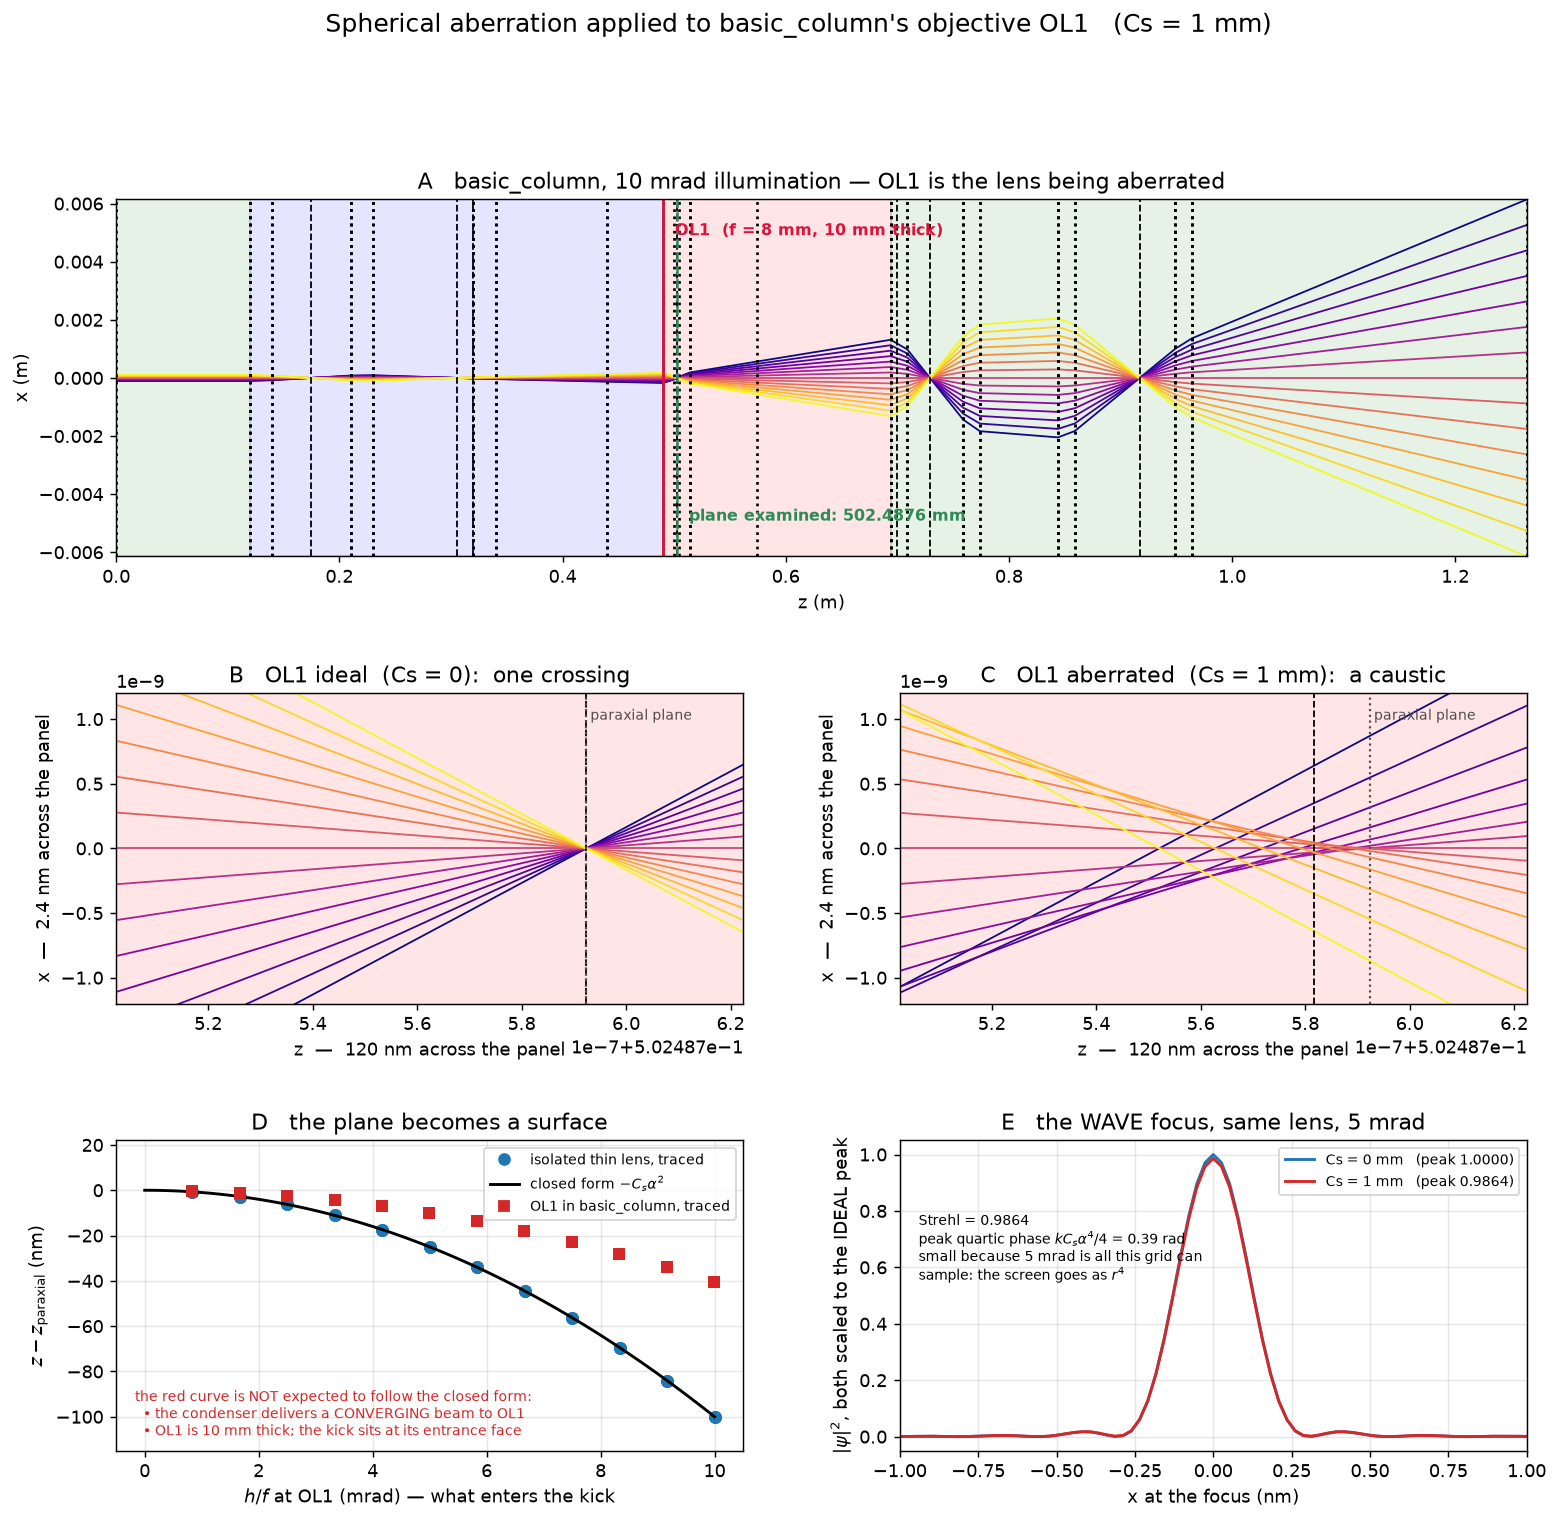
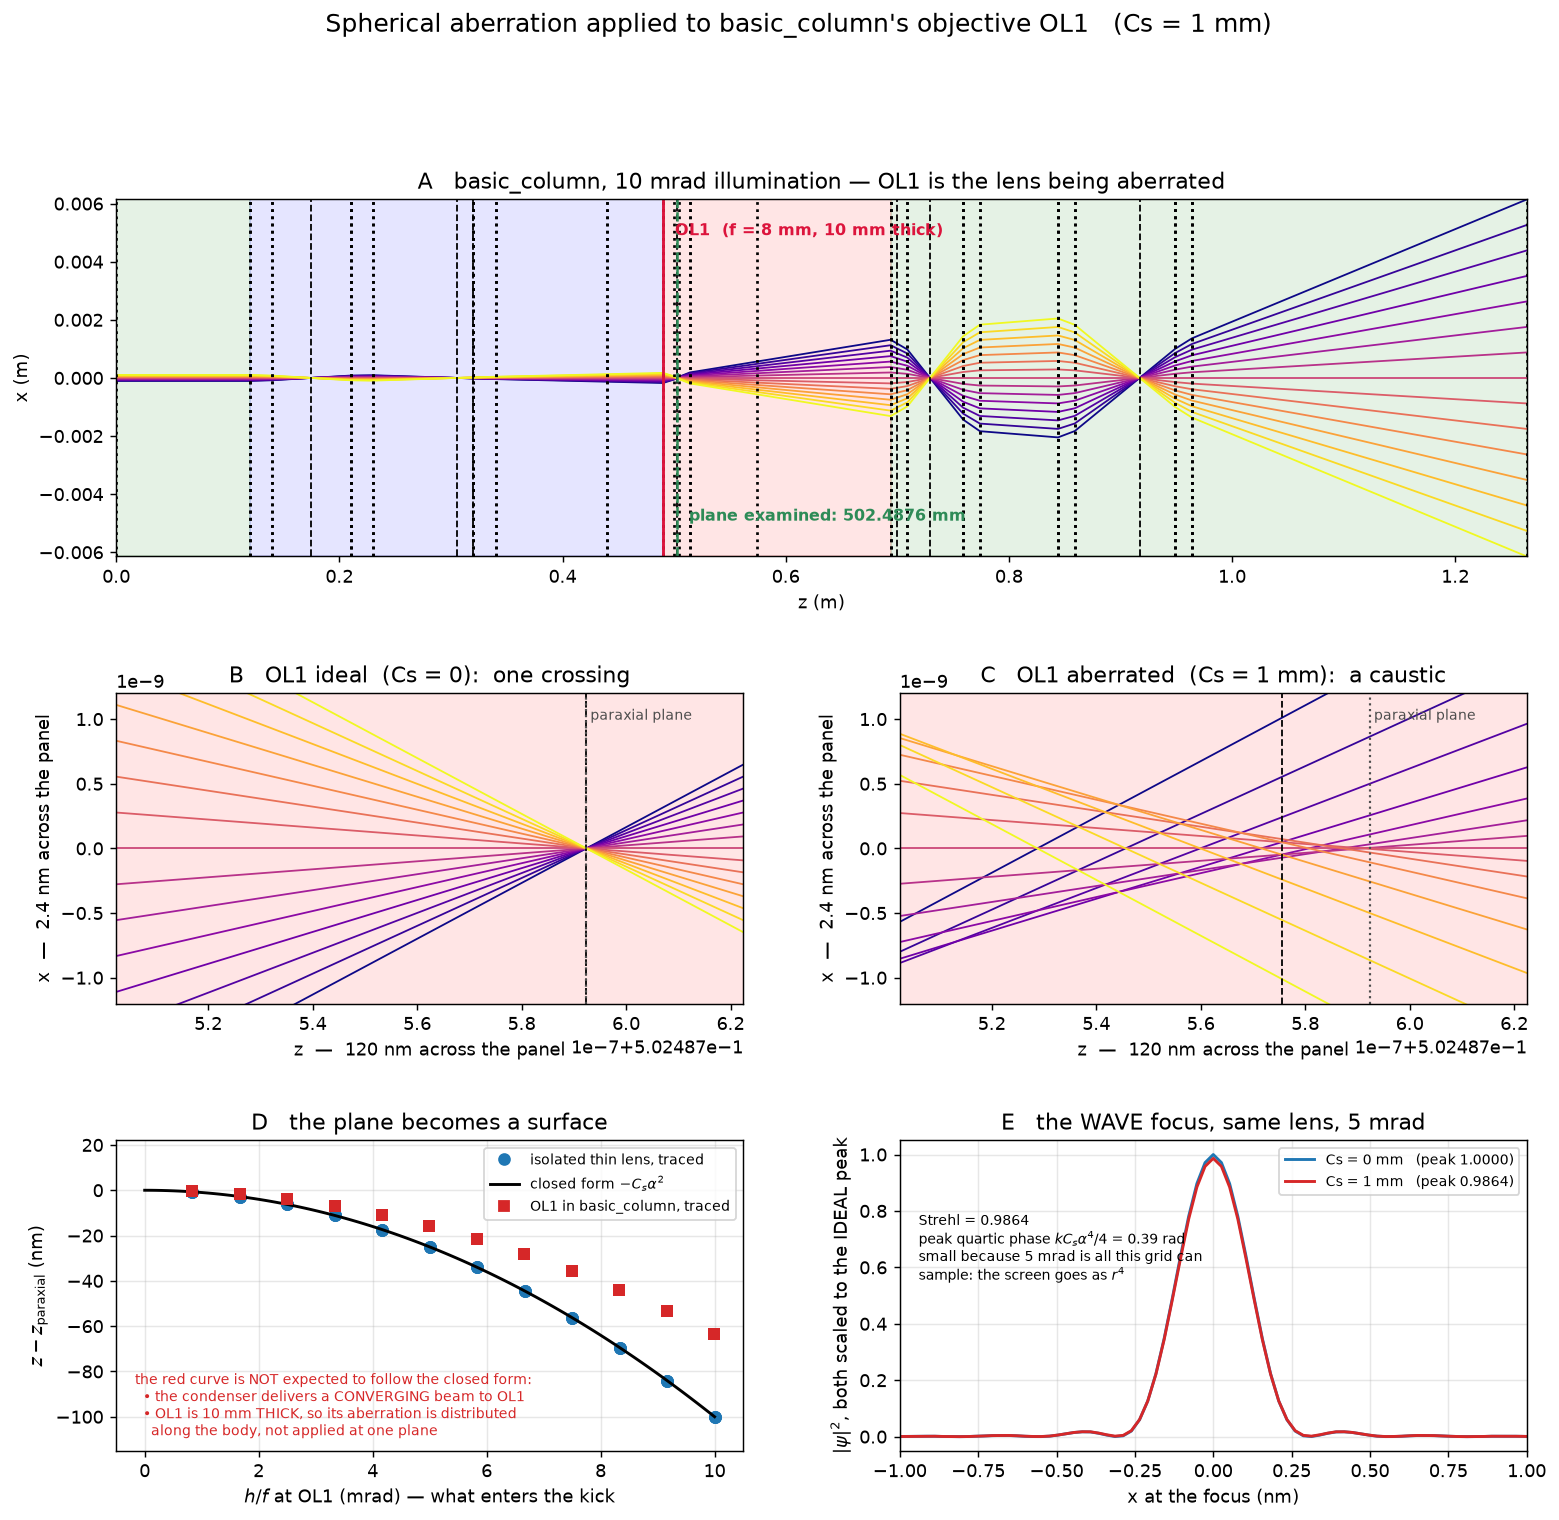
elements: distribute a thick lens's aberration through its body
Removes the approximation flagged last round: the whole aberration was applied
at a thick lens's entrance face, which is exact only for a thin lens and made
OL1 -- a 10 mm thick real objective -- non-quantitative.

A body's perturbation is distributed. A slice dz acts on the LOCAL ray height
r(z), and the remaining body then carries that kick to the exit, so to first
order

  dx_exit     = -c integral r(z)^2 x(z) B(L-z) dz
  dtheta_exit = -c integral r(z)^2 x(z) D(L-z) dz

with c = Cs/(f^4 L), chosen so the L -> 0 limit is the thin kick, and B, D from
the body's own transfer_block over the REMAINING length. Simpson over 64 slices.

aberration_kick's contract therefore widens from (dxt, dyt) to
(dx, dy, dxt, dyt): a point-like element contributes angle only, but a body also
displaces the ray, because its aberration acts part-way through.

Validated against direct integration of the perturbed ray equation
x'' = -K^2 x - c x r^2 through the body -- an independent route using none of
the transfer-block machinery. Agreement is 1.1e-6 to 5.7e-6 relative over
h = 20-80 um, and the residual grows as h^2, which is exactly the second-order
term a first-order perturbation omits. The thin case is unchanged to 1e-24 and
contributes no displacement.

Size of the correction, on OL1 (KL = 1.30): the entrance-face model
over-estimates the exit angle by 3.3x. r(z) falls as the body focuses AND each
slice's kick is then focused by the rest of the body; the second effect, the
[…]

Changed region(s): [[0.585, 0.4638, 0.9852, 0.6493], [0.0924, 0.8967, 0.3387, 0.9586], [0.3079, 0.8039, 0.3387, 0.8349]]

diff --git a/src/pySEA/rayTEM/elements.py b/src/pySEA/rayTEM/elements.py
@@ -461,8 +461,12 @@ class Element(SEASerializable):
 		Returns
 		-------
 		tuple of xp.ndarray or None
-			``(delta_xt, delta_yt)`` in radians, each shape ``(n_rays,)``, or
-			``None`` when the element is purely linear.
+			``(delta_x, delta_y, delta_xt, delta_yt)`` — offsets in metres and
+			radians, each shape ``(n_rays,)`` — or ``None`` when the element is
+			purely linear. A point-like element contributes angle only, but a
+			**body** also displaces the ray: its aberration acts part-way
+			through and the remaining length converts that kick into a
+			position offset as well.
 
 		Related
 		-------
@@ -592,7 +596,9 @@ class Element(SEASerializable):
 		# Declared by the element, applied here, exactly as transfer_matrix is.
 		kick = self.aberration_kick(r0)
 		if kick is not None:
-			dxt, dyt = kick
+			dx, dy, dxt, dyt = kick
+			rf[:,columnByName("x")] += dx
+			rf[:,columnByName("y")] += dy
 			rf[:,columnByName("xt")] += dxt
 			rf[:,columnByName("yt")] += dyt
 
@@ -2509,11 +2515,29 @@ class Lens(Element):
 
 		Notes
 		-----
-		The kick is evaluated at the entrance coordinates, which is **exact for
-		a thin lens** (``length == 0``, where the matrix leaves position
-		unchanged). For a thick body it places the whole aberration at the
-		entrance face rather than distributing it along the body; a distributed
-		treatment would need the aberration integral through the medium.
+		A **thin** lens (``length == 0``) takes one impulsive kick at its plane,
+		which is exact. A **thick** body distributes the perturbation along its
+		length: a slice ``dz`` acts on the *local* ray height
+		:math:`r(z)`, and the remaining body then carries that kick to the exit,
+		turning part of it into a position offset. To first order,
+
+		.. math::
+
+			\Delta x_{exit} = -c\!\int_0^L\! r(z)^2 x(z)\, B(L-z)\,dz, \quad
+			\Delta\theta_{exit} = -c\!\int_0^L\! r(z)^2 x(z)\, D(L-z)\,dz
+
+		with :math:`c = C_s/(f^4 L)` — chosen so the ``L -> 0`` limit is the thin
+		kick — and :math:`B, D` entries of the body's own
+		:meth:`transfer_block` over the *remaining* length. The integral is
+		Simpson over 64 slices.
+
+		This matters on a real objective. OL1 in ``basic_column`` is 10 mm thick
+		with :math:`KL = 1.30`, and putting the whole aberration at its entrance
+		face over-estimates the exit angle by **3.3x**: :math:`r(z)` falls as the
+		body focuses, and the kick from each slice is then itself focused by the
+		rest of the body. Both effects reduce it, and the weight
+		:math:`D(L-z) = \cos K(L-z)` is what makes the factor 0.31 rather than
+		the 0.51 that :math:`\int\cos^3` alone would suggest.
 		"""
 		Cs = getattr(self, "Cs", 0.0) or 0.0
 		P = self.focal_power()
@@ -2521,9 +2545,37 @@ class Lens(Element):
 			return None
 		x = r0[:, columnByName("x")]
 		y = r0[:, columnByName("y")]
-		r2 = x**2 + y**2
-		scale = Cs * P**4					# Cs / f^4
-		return -scale * x * r2, -scale * y * r2
+		L = self.length or 0.0
+		if L <= 0:							# thin: one impulsive kick, exact
+			r2 = x**2 + y**2
+			scale = Cs * P**4				# Cs / f^4
+			z = xp.zeros_like(x)
+			return z, z, -scale * x * r2, -scale * y * r2
+		# Thick: the perturbation is DISTRIBUTED along the body. A slice dz acts
+		# on the LOCAL ray height, and the rest of the body then turns that kick
+		# into a position offset too, so integrating is not the same as placing
+		# the whole thing at one face.
+		xt = r0[:, columnByName("xt")]
+		yt = r0[:, columnByName("yt")]
+		c = Cs * P**4 / L					# so the L -> 0 limit is the thin kick
+		n = 64								# Simpson over the body
+		zs = xp.linspace(0.0, L, n + 1)
+		w = xp.ones(n + 1) ; w[1:-1:2] = 4.0 ; w[2:-1:2] = 2.0
+		w = w * (L / n) / 3.0
+		dx = xp.zeros_like(x) ; dy = xp.zeros_like(y)
+		dxt = xp.zeros_like(x) ; dyt = xp.zeros_like(y)
+		for zi, wi in zip(zs, w):
+			A_i, B_i = self.transfer_block(dz=float(zi))[0]			# to the slice
+			x_i = A_i * x + B_i * xt
+			y_i = A_i * y + B_i * yt
+			r2_i = x_i**2 + y_i**2
+			rest = self.transfer_block(dz=float(L - zi))			# and onward
+			B_u, D_u = float(rest[0, 1]), float(rest[1, 1])
+			dx = dx - c * wi * x_i * r2_i * B_u
+			dy = dy - c * wi * y_i * r2_i * B_u
+			dxt = dxt - c * wi * x_i * r2_i * D_u
+			dyt = dyt - c * wi * y_i * r2_i * D_u
+		return dx, dy, dxt, dyt
 
 	def calibration_from_f_and_I(self,f,I,rotationPerAmp=None):
 		print("for lens",self.name,"seeking a calibration factor C, which focuses strength",I,"to focal length",f,"and rotationPerAmp",rotationPerAmp)

diff --git a/src/pySEA/rayTEM/tests/test_scaled_fresnel.py b/src/pySEA/rayTEM/tests/test_scaled_fresnel.py
@@ -1904,9 +1904,10 @@ def test_spherical_aberration_kick_matches_the_closed_form():
 	lens = Lens(strength=np.sqrt(1 / f), Cs=Cs)
 	r0 = np.zeros((3, 6))
 	r0[:, 0] = [0.0, 1e-4, 2e-4]
-	dxt, dyt = lens.aberration_kick(r0)
+	dx, dy, dxt, dyt = lens.aberration_kick(r0)
 	assert np.allclose(dxt, [-Cs * (1 / f)**4 * h**3 for h in r0[:, 0]], rtol=1e-12)
 	assert np.allclose(dyt, 0.0)
+	assert np.allclose(dx, 0.0) and np.allclose(dy, 0.0)	# a thin lens does not displace
 	# an ideal lens declares nothing at all, so aberration-free columns are
 	# bit-for-bit unchanged
 	assert Lens(strength=np.sqrt(1 / f)).aberration_kick(r0) is None
@@ -1925,6 +1926,40 @@ def test_spherical_aberration_kick_matches_the_closed_form():
 	# and the PARAXIAL plane is untouched -- aberration is the departure from it
 	assert np.isclose(float(mic.conjugate_planes(axis="x")["diff"][0]), 0.01 + f,
 					  atol=1e-12)
+
+
+def test_thick_body_aberration_matches_the_perturbed_ray_equation():
+	# A thick lens distributes its aberration: a slice dz acts on the LOCAL ray
+	# height and the rest of the body carries that kick to the exit, giving a
+	# position offset as well as an angle one. Validated against direct
+	# integration of x'' = -K^2 x - c x r^2 through the body -- an independent
+	# route that uses none of the transfer-block machinery.
+	from scipy.integrate import solve_ivp
+	K, L, Cs = 129.80, 0.010, 1e-3			# OL1's real parameters
+	lens = Lens(strength=K, length=L, Cs=Cs)
+	c = Cs * lens.focal_power()**4 / L
+	A, B = np.cos(K * L), np.sin(K * L) / K
+	for h in (2e-5, 4e-5, 8e-5):
+		sol = solve_ivp(lambda z, u: [u[1], -K**2 * u[0] - c * u[0]**3],
+						[0, L], [h, 0.0], rtol=1e-12, atol=1e-18)
+		d_ode = (sol.y[0, -1] - A * h, sol.y[1, -1] + K * np.sin(K * L) * h)
+		r0 = np.zeros((1, 6)); r0[0, 0] = h
+		dx, dy, dxt, dyt = lens.aberration_kick(r0)
+		# first-order perturbation, so the residual is the second-order term and
+		# must stay small AND grow with h
+		assert abs(dx[0] / d_ode[0] - 1) < 1e-4, h
+		assert abs(dxt[0] / d_ode[1] - 1) < 1e-4, h
+	# the thin limit is untouched: no displacement, and the impulsive kick
+	thin = Lens(strength=np.sqrt(1 / 0.045), Cs=Cs)
+	r0 = np.zeros((2, 6)); r0[:, 0] = [1e-4, 2e-4]
+	dx, dy, dxt, dyt = thin.aberration_kick(r0)
+	assert np.all(dx == 0) and np.all(dy == 0)
+	assert np.allclose(dxt, [-Cs * (1 / 0.045)**4 * h**3 for h in r0[:, 0]], rtol=1e-12)
+	# distributing it is NOT the same as placing it at the entrance face: r(z)
+	# falls as the body focuses, so the entrance-face model over-estimates
+	entrance = -Cs * lens.focal_power()**4 * 8e-5**3
+	r0 = np.zeros((1, 6)); r0[0, 0] = 8e-5
+	assert abs(lens.aberration_kick(r0)[2][0]) < 0.7 * abs(entrance)
 
 
 def test_focal_surface_is_flat_without_aberration():
@@ -2003,7 +2038,7 @@ def test_ray_kick_is_the_gradient_of_the_wave_screen():
 		grad = np.gradient(chi, dx, axis=1)[n // 2, :] / k
 		r0 = np.zeros((n, 6))
 		r0[:, 0], r0[:, 2] = X[n // 2, :], Y[n // 2, :]
-		kick = lens.aberration_kick(r0)[0]
+		kick = lens.aberration_kick(r0)[2]			# (dx, dy, dxt, dyt)
 		m = np.abs(X[n // 2, :]) < 2e-5
 		errs.append(np.abs(grad[m] - kick[m]).max())
 	assert errs[0] > 0

diff --git a/examples/06_aberratedObjective.py b/examples/06_aberratedObjective.py
@@ -5,9 +5,10 @@ Five panels:
 A  the column, with OL1 and the plane examined marked.
 B  the OL diffraction plane with an ideal OL1 -- every ray crosses at one point.
 C  the same plane with Cs = 1 mm -- the rays cross over a 40 nm spread: a caustic.
-D  the focal surface. The ISOLATED lens follows the closed form -Cs alpha^2
-   exactly, which validates the implementation; OL1 inside the column does not,
-   and should not, for two stated reasons.
+D  the focal surface. The ISOLATED thin lens follows the closed form
+   -Cs alpha^2 exactly, which validates the implementation; OL1 inside the
+   column does not, and should not: the beam arrives converging, and OL1 is
+   10 mm thick so its aberration is distributed along the body.
 E  the same aberration in the WAVE path, as a Strehl loss at the focus.
 
 Run: python examples/06_aberratedObjective.py   (writes figures/)
@@ -94,7 +95,8 @@ axD.set_ylim(-115, 22)
 axD.text(0.03, 0.05,
 	"the red curve is NOT expected to follow the closed form:\n"
 	"  • the condenser delivers a CONVERGING beam to OL1\n"
-	"  • OL1 is 10 mm thick; the kick sits at its entrance face",
+	"  • OL1 is 10 mm THICK, so its aberration is distributed\n"
+	"    along the body, not applied at one plane",
 	transform=axD.transAxes, fontsize=7.6, color="tab:red")
 
 # ---- E: the wave, same lens, same aberration ----------------------------
